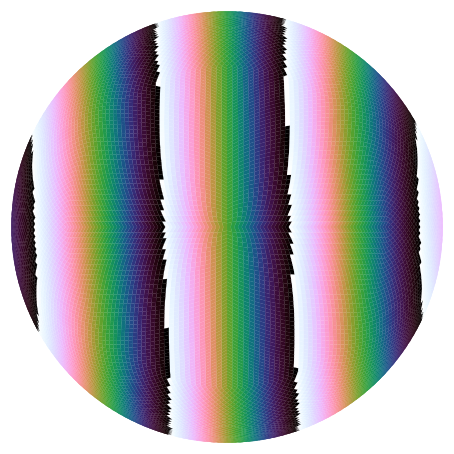
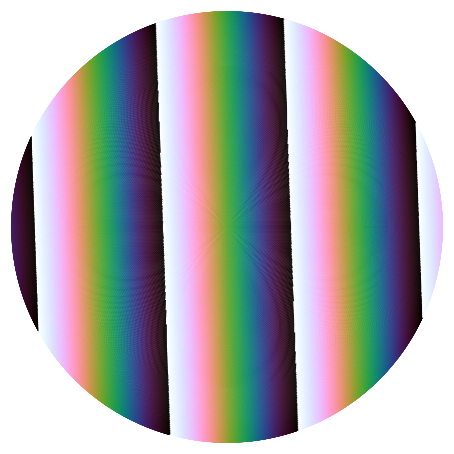
Fixed up all the probabilities

diff --git a/tart_workshop/tart_imaging/tart_imaging.tex b/tart_workshop/tart_imaging/tart_imaging.tex
@@ -167,10 +167,10 @@ E_j & = & A e^{i (k (r + dr) - \omega (t+dt)} \\
 \end{column}
  \begin{column}{0.7\linewidth}
   \begin{center}
-  \includegraphics[width=0.45\linewidth]{images/harmonic_uvw_0.pdf}
-  \includegraphics[width=0.45\linewidth]{images/harmonic_uvw_1.pdf}\\
-  \includegraphics[width=0.45\linewidth]{images/harmonic_uvw_2.pdf}
-  \includegraphics[width=0.45\linewidth]{images/harmonic_uvw_3.pdf}
+  \includegraphics[width=0.45\linewidth]{images/harmonics/fringe_0.png}
+  \includegraphics[width=0.45\linewidth]{images/harmonics/fringe_1.png}\\
+  \includegraphics[width=0.45\linewidth]{images/harmonics/fringe_2.png}
+  \includegraphics[width=0.45\linewidth]{images/harmonics/fringe_3.png}
   \end{center}
  \end{column}
 \end{columns}
@@ -206,10 +206,10 @@ Well its geometry. A bit of diagram drawing gives.
 \end{column}
  \begin{column}{0.7\linewidth}
   \begin{center}
-  \includegraphics[width=0.45\linewidth]{images/harmonic_uvw_0.pdf}
-  \includegraphics[width=0.45\linewidth]{images/harmonic_uvw_1.pdf}\\
-  \includegraphics[width=0.45\linewidth]{images/harmonic_uvw_2.pdf}
-  \includegraphics[width=0.45\linewidth]{images/harmonic_uvw_3.pdf}
+  \includegraphics[width=0.45\linewidth]{images/harmonics/fringe_0.png}
+  \includegraphics[width=0.45\linewidth]{images/harmonics/fringe_1.png}\\
+  \includegraphics[width=0.45\linewidth]{images/harmonics/fringe_2.png}
+  \includegraphics[width=0.45\linewidth]{images/harmonics/fringe_3.png}
   \end{center}
  \end{column}
 \end{columns}
@@ -220,7 +220,8 @@ Well its geometry. A bit of diagram drawing gives.
 \end{frame}
 
 
-\begin{frame}{Multiplying Fringes}
+
+\begin{frame}{Multiplying Fringes shifts phase}
  If a fringe is multiplied by a complex number $r e^{i \psi}$, then the phase component of the fringe $F(\theta, \phi)$ is shifted.
 \begin{columns}
  \begin{column}{0.5\linewidth}
@@ -243,7 +244,7 @@ Well its geometry. A bit of diagram drawing gives.
       $e^{i 5.23}$ = \raisebox{-0.4\height}{\includegraphics[height=1cm]{images/harmonics-phase/fringe_0_5.235987755982988.png}}
     \end{minipage}
  \end{column}
-\begin{column}{0.5\linewidth} $e^{2 \pi}$ = \raisebox{-0.4\height}{ \includegraphics[height=4cm]{images/harmonics-phase/fringe_0_6.283185307179586.png}}
+\begin{column}{0.5\linewidth} $e^{i 2 \pi}$ = \raisebox{-0.4\height}{ \includegraphics[height=4cm]{images/harmonics-phase/fringe_0_6.283185307179586.png}}
 \end{column}
 \end{columns}
 \end{frame}
@@ -257,7 +258,7 @@ Well its geometry. A bit of diagram drawing gives.
 
  \begin{itemize}
   \item  The source must be {\em close} to the locations in the sky where the fringe phase is $\psi$.
-  \item How close depends on the noise. Define a likelihood: \[ P(\theta, \phi) = e^{-\left(\frac{F_{ij(\theta, \phi)} - \psi}{\sigma_\psi}\right)^2}  \]
+  \item How close depends on the noise. Define a Gaussian likelihood: \[ P(\theta, \phi) = e^{-\left(\frac{F_{ij(\theta, \phi)} - \psi}{\sigma_\psi}\right)^2}  \]
  \end{itemize}
 
      \begin{minipage}{\linewidth}
@@ -274,39 +275,38 @@ Well its geometry. A bit of diagram drawing gives.
  \end{block}
 \end{frame}
 
-
-\begin{frame}{Adding fringes}
+\begin{frame}{Adding fringe probabilities}
 \begin{minipage}{\linewidth}
   \centering
-  \raisebox{-0.4\height}{\includegraphics[height=2cm]{images/harmonics/fringe_0.png}} +
-  \raisebox{-0.4\height}{\includegraphics[height=2cm]{images/harmonics/fringe_1.png}} =
+  \raisebox{-0.4\height}{\includegraphics[height=2cm]{images/harmonics/prob_0.png}} +
+  \raisebox{-0.4\height}{\includegraphics[height=2cm]{images/harmonics/prob_1.png}} =
   \raisebox{-0.4\height}{\includegraphics[height=2cm]{images/harmonics/sum_1.png}}
 \end{minipage}
 \begin{minipage}{\linewidth}
   \centering
-  \raisebox{-0.4\height}{\includegraphics[height=2cm]{images/harmonics/fringe_0.png}} +
-  \raisebox{-0.4\height}{\includegraphics[height=2cm]{images/harmonics/fringe_1.png}} +
-  \raisebox{-0.4\height}{\includegraphics[height=2cm]{images/harmonics/fringe_2.png}} =
+  \raisebox{-0.4\height}{\includegraphics[height=2cm]{images/harmonics/prob_0.png}} +
+  \raisebox{-0.4\height}{\includegraphics[height=2cm]{images/harmonics/prob_1.png}} +
+  \raisebox{-0.4\height}{\includegraphics[height=2cm]{images/harmonics/prob_2.png}} =
   \raisebox{-0.4\height}{\includegraphics[height=2cm]{images/harmonics/sum_2.png}}
 \end{minipage}
 \begin{minipage}{\linewidth}
   \centering
-  \raisebox{-0.4\height}{\includegraphics[height=1cm]{images/harmonics/fringe_0.png}} +
-  \raisebox{-0.4\height}{\includegraphics[height=1cm]{images/harmonics/fringe_1.png}} +
-  \raisebox{-0.4\height}{\includegraphics[height=1cm]{images/harmonics/fringe_2.png}} +
-  \raisebox{-0.4\height}{\includegraphics[height=1cm]{images/harmonics/fringe_3.png}} +
-  \raisebox{-0.4\height}{\includegraphics[height=1cm]{images/harmonics/fringe_4.png}} +
-  \raisebox{-0.4\height}{\includegraphics[height=1cm]{images/harmonics/fringe_5.png}} =
+  \raisebox{-0.4\height}{\includegraphics[height=1cm]{images/harmonics/prob_0.png}} +
+  \raisebox{-0.4\height}{\includegraphics[height=1cm]{images/harmonics/prob_1.png}} +
+  \raisebox{-0.4\height}{\includegraphics[height=1cm]{images/harmonics/prob_2.png}} +
+  \raisebox{-0.4\height}{\includegraphics[height=1cm]{images/harmonics/prob_3.png}} +
+  \raisebox{-0.4\height}{\includegraphics[height=1cm]{images/harmonics/prob_4.png}} +
+  \raisebox{-0.4\height}{\includegraphics[height=1cm]{images/harmonics/prob_5.png}} =
   \raisebox{-0.4\height}{\includegraphics[height=1cm]{images/harmonics/sum_5.png}}
 \end{minipage}
 \begin{minipage}{\linewidth}
   \centering
-  \raisebox{-0.4\height}{\includegraphics[height=1cm]{images/harmonics/fringe_0.png}} +
-  \raisebox{-0.4\height}{\includegraphics[height=1cm]{images/harmonics/fringe_1.png}} +
-  \raisebox{-0.4\height}{\includegraphics[height=1cm]{images/harmonics/fringe_2.png}} +
-  \raisebox{-0.4\height}{\includegraphics[height=1cm]{images/harmonics/fringe_3.png}} +
-  \raisebox{-0.4\height}{\includegraphics[height=1cm]{images/harmonics/fringe_4.png}} \ldots
-  \raisebox{-0.4\height}{\includegraphics[height=1cm]{images/harmonics/fringe_51.png}} =
+  \raisebox{-0.4\height}{\includegraphics[height=1cm]{images/harmonics/prob_0.png}} +
+  \raisebox{-0.4\height}{\includegraphics[height=1cm]{images/harmonics/prob_1.png}} +
+  \raisebox{-0.4\height}{\includegraphics[height=1cm]{images/harmonics/prob_2.png}} +
+  \raisebox{-0.4\height}{\includegraphics[height=1cm]{images/harmonics/prob_3.png}} +
+  \raisebox{-0.4\height}{\includegraphics[height=1cm]{images/harmonics/prob_4.png}} \ldots
+  \raisebox{-0.4\height}{\includegraphics[height=1cm]{images/harmonics/prob_51.png}} =
   \raisebox{-0.4\height}{\includegraphics[height=1cm]{images/harmonics/sum_51.png}}
 \end{minipage}
 \begin{minipage}{\linewidth}
@@ -315,6 +315,11 @@ Well its geometry. A bit of diagram drawing gives.
 \end{minipage}
 \end{frame}
 
+\begin{frame}{All the fringes: The point spread function}
+\centering{
+ \includegraphics[width=0.7\linewidth]{images/harmonics/sum_275.png}
+ }
+\end{frame}
 \begin{frame}{Imaging}
  Imaging: work out where the sources are from 276 measured visibilities. So solve 276 equations to work out the sky.
  \begin{itemize}
